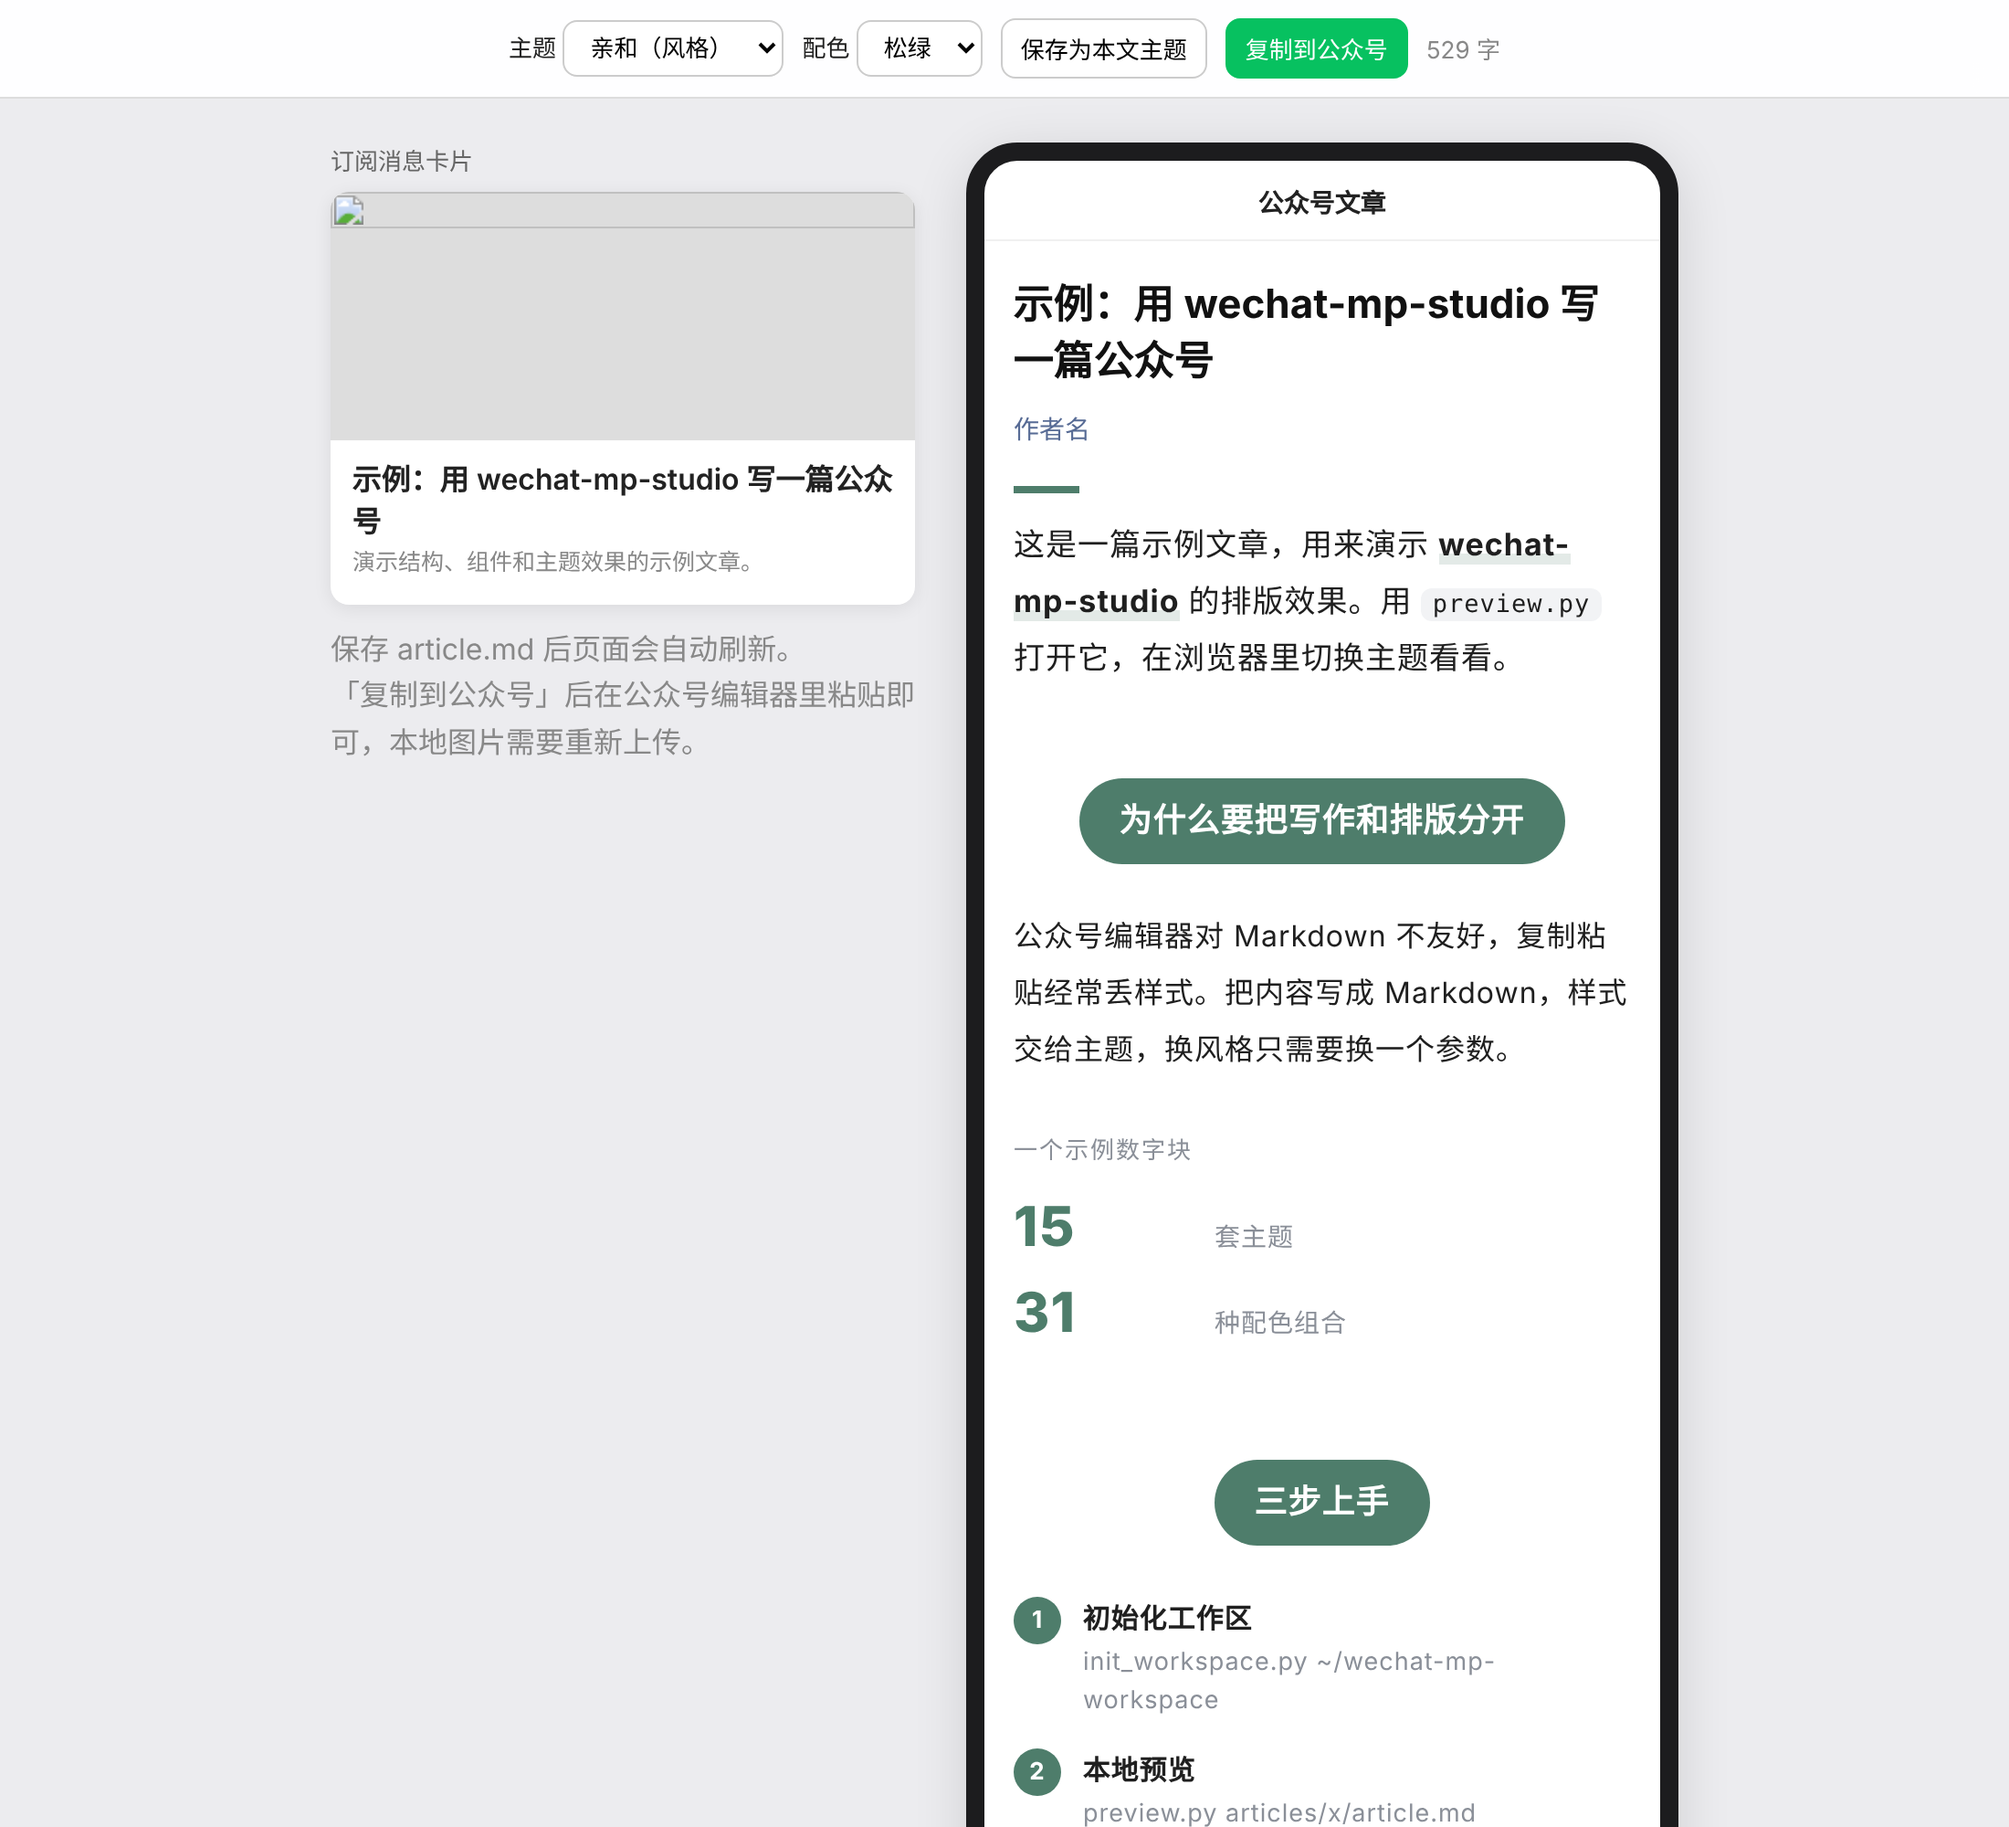
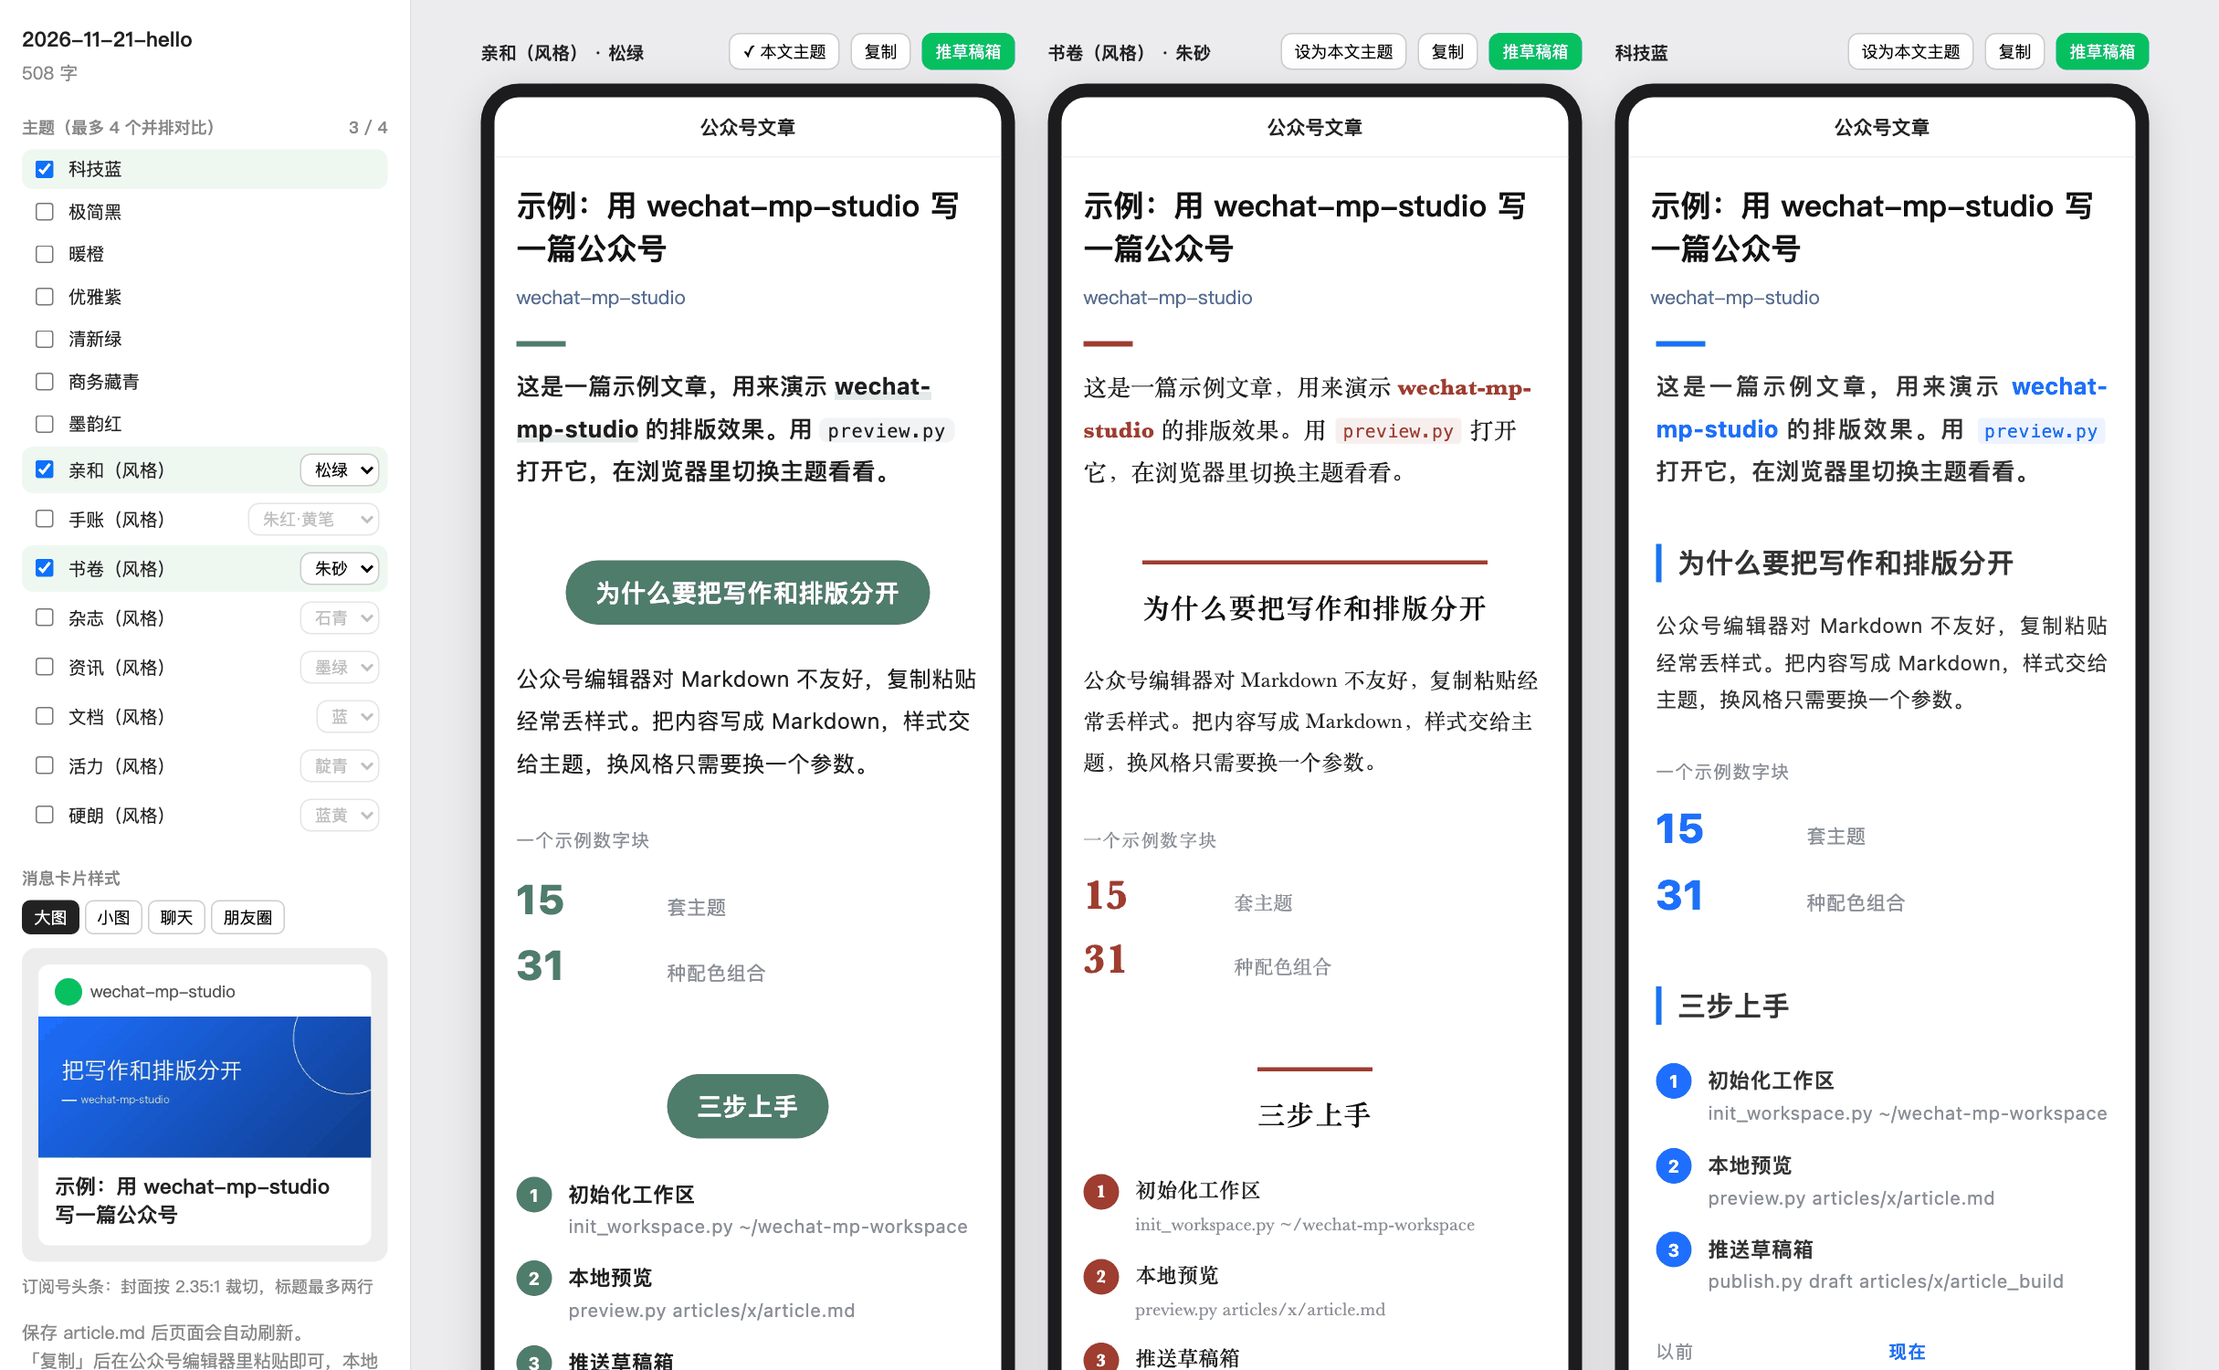
docs: regenerate preview screenshot and add screenshot script
- Add tools/screenshot_preview.py to rebuild docs/images/preview.png from examples/hello
- Refresh preview.png with the sidebar, theme comparison and card styles
- Update README feature bullets and directory listing
- Add CLAUDE.md rule to regenerate the screenshot when the preview UI or themes change

diff --git a/tools/screenshot_preview.py b/tools/screenshot_preview.py
@@ -1,0 +1,90 @@
+#!/usr/bin/env python3
+"""Regenerate docs/images/preview.png from examples/hello with the live preview server.
+
+Usage: python3 tools/screenshot_preview.py
+Requires: pip install playwright pillow && playwright install chromium
+"""
+import json
+import os
+import shutil
+import socket
+import subprocess
+import sys
+import tempfile
+import time
+import urllib.request
+
+ROOT = os.path.dirname(os.path.dirname(os.path.abspath(__file__)))
+SCRIPTS = os.path.join(ROOT, "skills", "wechat-mp-studio", "scripts")
+OUT = os.path.join(ROOT, "docs", "images", "preview.png")
+PICKS = [{"theme": "friendly", "scheme": "松绿"}, {"theme": "bookish", "scheme": "朱砂"}, {"theme": "tech-blue", "scheme": ""}]
+VIEWPORT = {"width": 1620, "height": 1000}
+
+sys.path.insert(0, SCRIPTS)
+from preview import set_front_matter  # noqa: E402
+
+
+def free_port():
+    with socket.socket() as s:
+        s.bind(("127.0.0.1", 0))
+        return s.getsockname()[1]
+
+
+def wait_up(url, timeout=15):
+    end = time.time() + timeout
+    while time.time() < end:
+        try:
+            urllib.request.urlopen(url, timeout=1)
+            return
+        except OSError:
+            time.sleep(0.2)
+    sys.exit(f"preview server did not start: {url}")
+
+
+def main():
+    from playwright.sync_api import sync_playwright
+
+    root_tmp = tempfile.mkdtemp()
+    tmp = os.path.join(root_tmp, "2026-11-21-hello")
+    os.makedirs(tmp)
+    try:
+        md = os.path.join(tmp, "article.md")
+        shutil.copy(os.path.join(ROOT, "examples", "hello", "article.md"), md)
+        subprocess.run([sys.executable, os.path.join(SCRIPTS, "cover.py"), "--title", "把写作和排版分开",
+                        "--subtitle", "wechat-mp-studio", "--theme", "tech-blue",
+                        "--out", os.path.join(tmp, "cover.jpg")], check=True, capture_output=True)
+        set_front_matter(md, {"cover": "cover.jpg", "author": "wechat-mp-studio"})
+
+        port = free_port()
+        srv = subprocess.Popen([sys.executable, os.path.join(SCRIPTS, "preview.py"), md, "--port", str(port),
+                                "--no-open"], cwd=tmp, stdout=subprocess.DEVNULL, stderr=subprocess.DEVNULL)
+        try:
+            url = f"http://127.0.0.1:{port}/"
+            wait_up(url)
+            with sync_playwright() as p:
+                b = p.chromium.launch()
+                pg = b.new_page(viewport=VIEWPORT, device_scale_factor=1.5)
+                pg.add_init_script(f"localStorage.setItem('wmp-picks', {json.dumps(json.dumps(PICKS))});"
+                                   "localStorage.setItem('wmp-card', 'feed');")
+                pg.goto(url)
+                pg.wait_for_function(f"document.querySelectorAll('.art').length === {len(PICKS)} && "
+                                     "[...document.querySelectorAll('.art')].every(a => a.children.length)")
+                pg.wait_for_function("[...document.images].every(i => i.complete)")
+                pg.wait_for_timeout(300)
+                pg.screenshot(path=OUT)
+                b.close()
+        finally:
+            srv.terminate()
+    finally:
+        shutil.rmtree(root_tmp, ignore_errors=True)
+
+    try:
+        from PIL import Image
+        Image.open(OUT).convert("RGB").quantize(colors=256, method=Image.Quantize.MEDIANCUT).save(OUT, optimize=True)
+    except ImportError:
+        pass
+    print(f"wrote {os.path.relpath(OUT, ROOT)}")
+
+
+if __name__ == "__main__":
+    main()

diff --git a/README.en.md b/README.en.md
@@ -7,7 +7,7 @@ A Claude skill for **writing, formatting, previewing and publishing WeChat Offic
 - ✍ **Write** — 7 article structure templates, a personal style profile, automatic review (typos, sensitive words, "AI tone")
 - 🎨 **Format** — Markdown → WeChat-safe inline-styled HTML; 15 themes (7 base + 8 styles × 3 color schemes)
 - 🧩 **Components** — callouts, lead, stat cards, quote card, compare, steps, checklist, author card, footer QR
-- 👀 **Local live preview** — phone-width preview in your browser, switch theme/scheme, auto-reload on save, one-click copy into the WeChat editor
+- 👀 **Local live preview** — phone-width preview in your browser, compare up to 4 themes/schemes side by side, check feed/chat/Moments card styles, auto-reload on save, one-click copy into the WeChat editor or push to the draft box
 - 🚀 **Publish** — automatic image upload & compression, push to the draft box, optional direct publish, multiple accounts
 
 ![Local preview](docs/images/preview.png)
@@ -83,6 +83,7 @@ skills/wechat-mp-studio/     ← the skill (install this folder)
   assets/workspace/          workspace template
 examples/hello/              sample article
 tests/                       pytest
+tools/                       dev scripts (regenerate README screenshots)
 install.sh / package.sh      manual install / build the upload zip
 ```
 

diff --git a/README.md b/README.md
@@ -7,7 +7,7 @@
 - ✍ **创作**：7 套文章结构模版、写作风格档案、自动审校（错别字 / 敏感词 / AI 腔）
 - 🎨 **排版**：Markdown → 公众号可用的内联样式 HTML；15 套主题（7 基础 + 8 风格 × 3 配色）
 - 🧩 **组件**：提示框、导语、数据卡、金句卡、对比、步骤、清单、作者卡、页脚二维码
-- 👀 **本地实时预览**：浏览器里手机宽度预览，切换主题/配色，保存即刷新，一键复制到公众号编辑器
+- 👀 **本地实时预览**：浏览器里手机宽度预览，最多 4 个主题/配色并排对比，检查订阅号/聊天/朋友圈卡片效果，保存即刷新，一键复制到公众号编辑器或推送草稿箱
 - 🚀 **发布**：图片自动上传压缩，推送草稿箱，可选直接发布，多账号
 
 ![本地预览](docs/images/preview.png)
@@ -94,6 +94,7 @@ skills/wechat-mp-studio/     ← skill 本体（安装这个文件夹）
   assets/workspace/          工作区模板
 examples/hello/              示例文章
 tests/                       pytest
+tools/                       开发用脚本（重新生成 README 截图）
 install.sh / package.sh      手动安装 / 打包上传用 zip
 ```
 

diff --git a/CLAUDE.md b/CLAUDE.md
@@ -1,0 +1,14 @@
+# wechat-mp-studio
+
+## Keep README screenshots current
+
+`docs/images/preview.png` is generated, not hand-made. Whenever a change touches the preview UI
+(`skills/wechat-mp-studio/scripts/preview.py`), theme rendering (`convert.py`, `themes.py`, `presets.py`)
+or `examples/hello/article.md`, regenerate it in the same commit:
+
+```
+python3 tools/screenshot_preview.py   # needs: pip install playwright pillow && playwright install chromium
+```
+
+Look at the resulting image before committing, and update the README feature bullets (both `README.md`
+and `README.en.md`) if the UI gained or lost a feature.

diff --git a/CHANGELOG.md b/CHANGELOG.md
@@ -7,6 +7,7 @@
 - 每个预览新增「推草稿箱」按钮：按该主题排版并一键推送到公众号草稿箱
 - 消息卡片可切换 大图 / 小图 / 聊天 / 朋友圈 四种样式，检查标题截断和封面裁切
 - 侧栏底部新增 GitHub 链接：Star 与反馈问题
+- 新增 `tools/screenshot_preview.py`：一键重新生成 README 预览截图
 
 ## 0.1.1 — 2026-11-21
 
